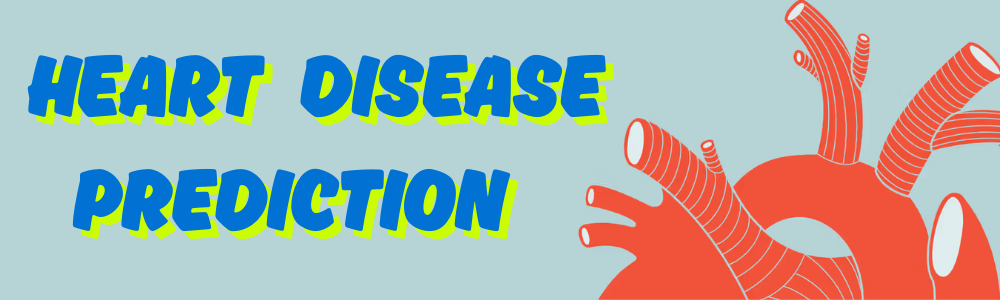
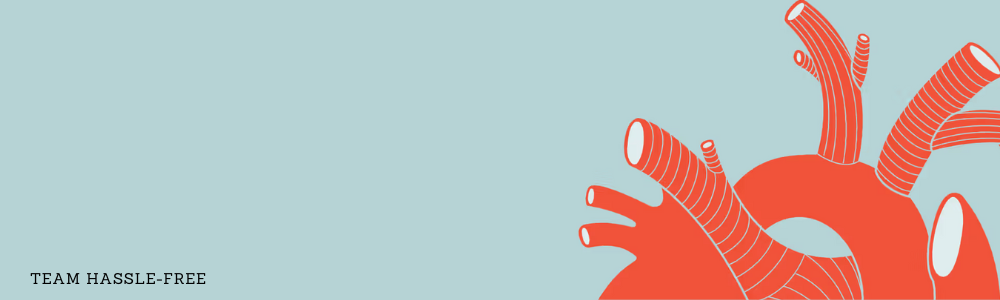
DONE

Changed region(s): [[0.031, 0.18, 0.62, 0.42], [0.062, 0.54, 0.527, 0.81], [0.031, 0.9, 0.217, 0.96]]

diff --git a/templates/index.html b/templates/index.html
@@ -22,9 +22,9 @@
                 <img src="static/images/CA-1.png" class="d-block w-100" alt="Heart health analysis" style="min-height: 400px; object-fit: cover;">
                 <div class="carousel-overlay d-flex align-items-center">
                     <div class="container text-start text-white">
-                        <h2 class="display-5 fw-light mb-3">Advanced Heart Health Analysis</h2>
+                        <h2 class="display-5 fw-light mb-3">HEART DISEASE PREDICTION</h2>
                         <p class="lead d-none d-md-block">Our AI-powered system evaluates your cardiovascular risk factors with precision</p>
-                        <a href="#features" class="btn btn-outline-light btn-lg mt-3 px-4 py-2 rounded-pill">Learn More</a>
+                        <a href="#features" class="btn btn-outline-light btn-lg mt-3 px-4 py-2 rounded-pill">GET STARTED</a>
                     </div>
                 </div>
             </div>
@@ -48,9 +48,9 @@
                 <img src="static/images/CA-3.png" class="d-block w-100" alt="Medical insights" style="min-height: 400px; object-fit: cover;">
                 <div class="carousel-overlay d-flex align-items-center">
                     <div class="container text-start text-white">
-                        <h2 class="display-5 fw-light mb-3">Personalized Health Insights</h2>
-                        <p class="lead d-none d-md-block">Receive tailored recommendations based on your unique health profile</p>
-                        <a href="#features" class="btn btn-outline-light btn-lg mt-3 px-4 py-2 rounded-pill">Get Started</a>
+                        <h2 class="display-5 fw-light mb-3"></h2>
+                        <p class="lead d-none d-md-block"></p>
+                        
                     </div>
                 </div>
             </div>
